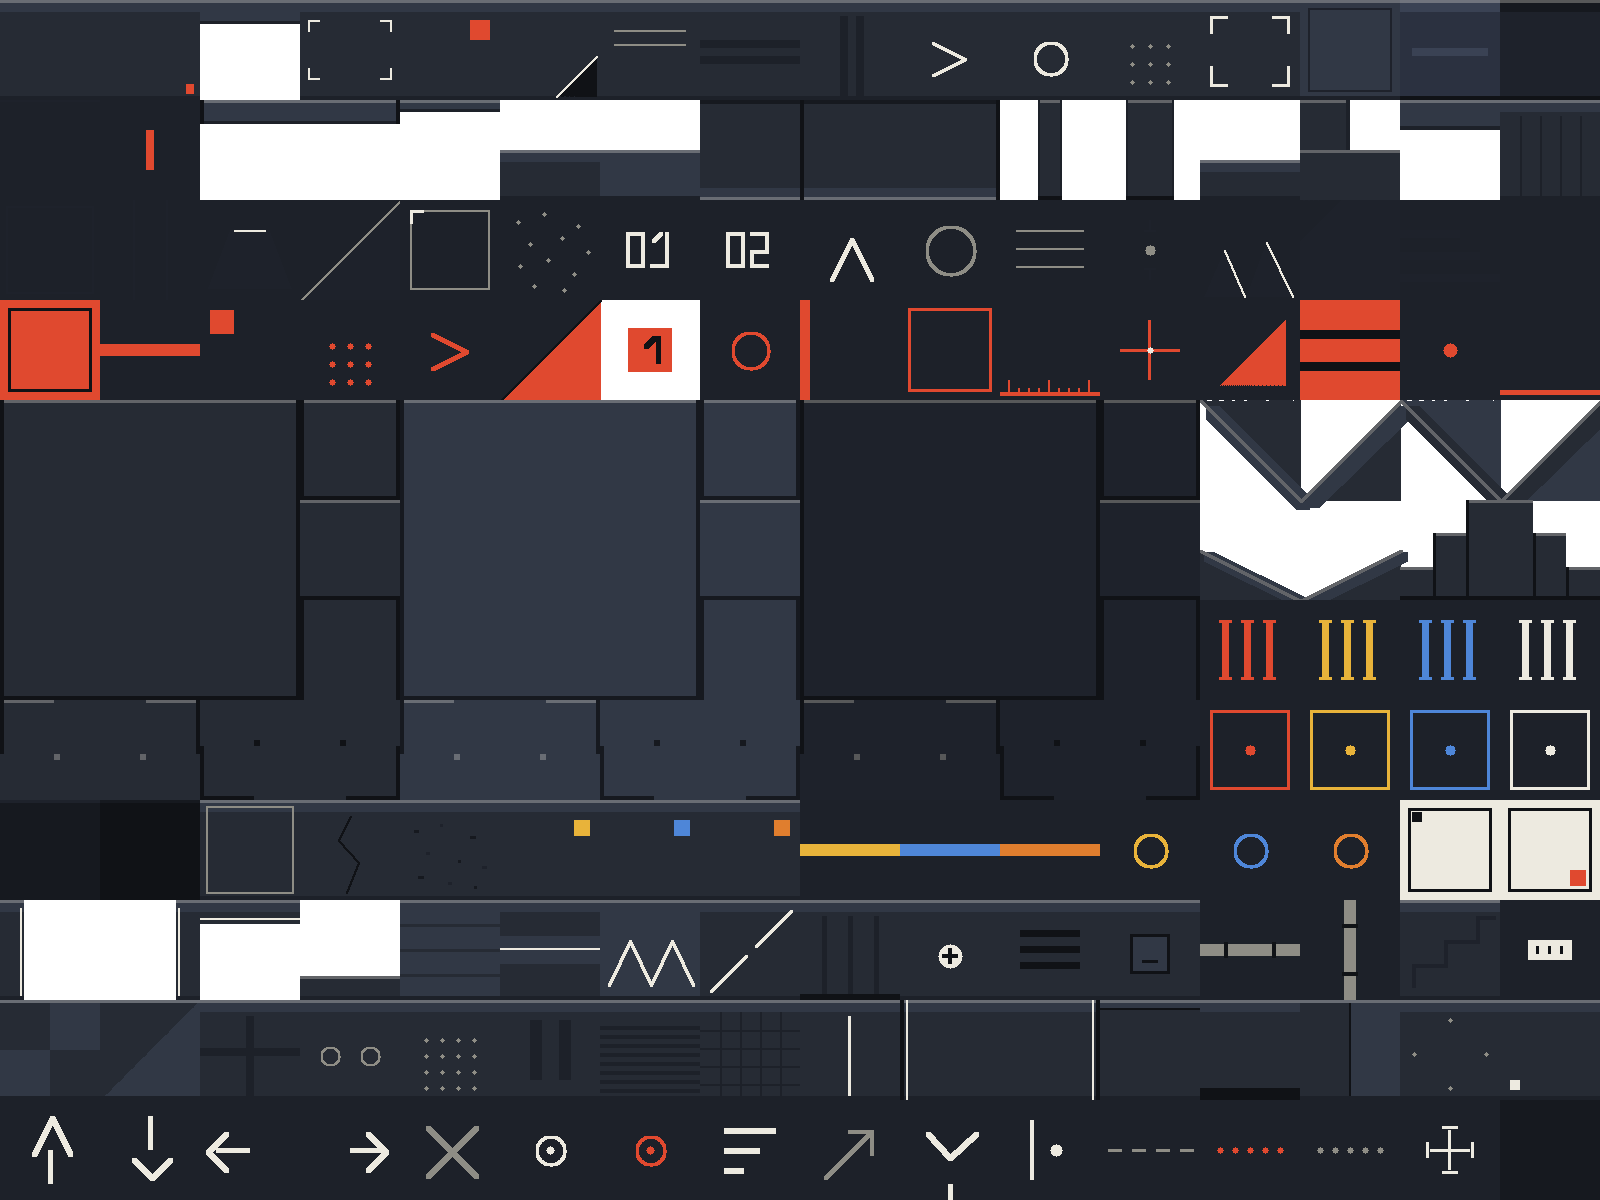
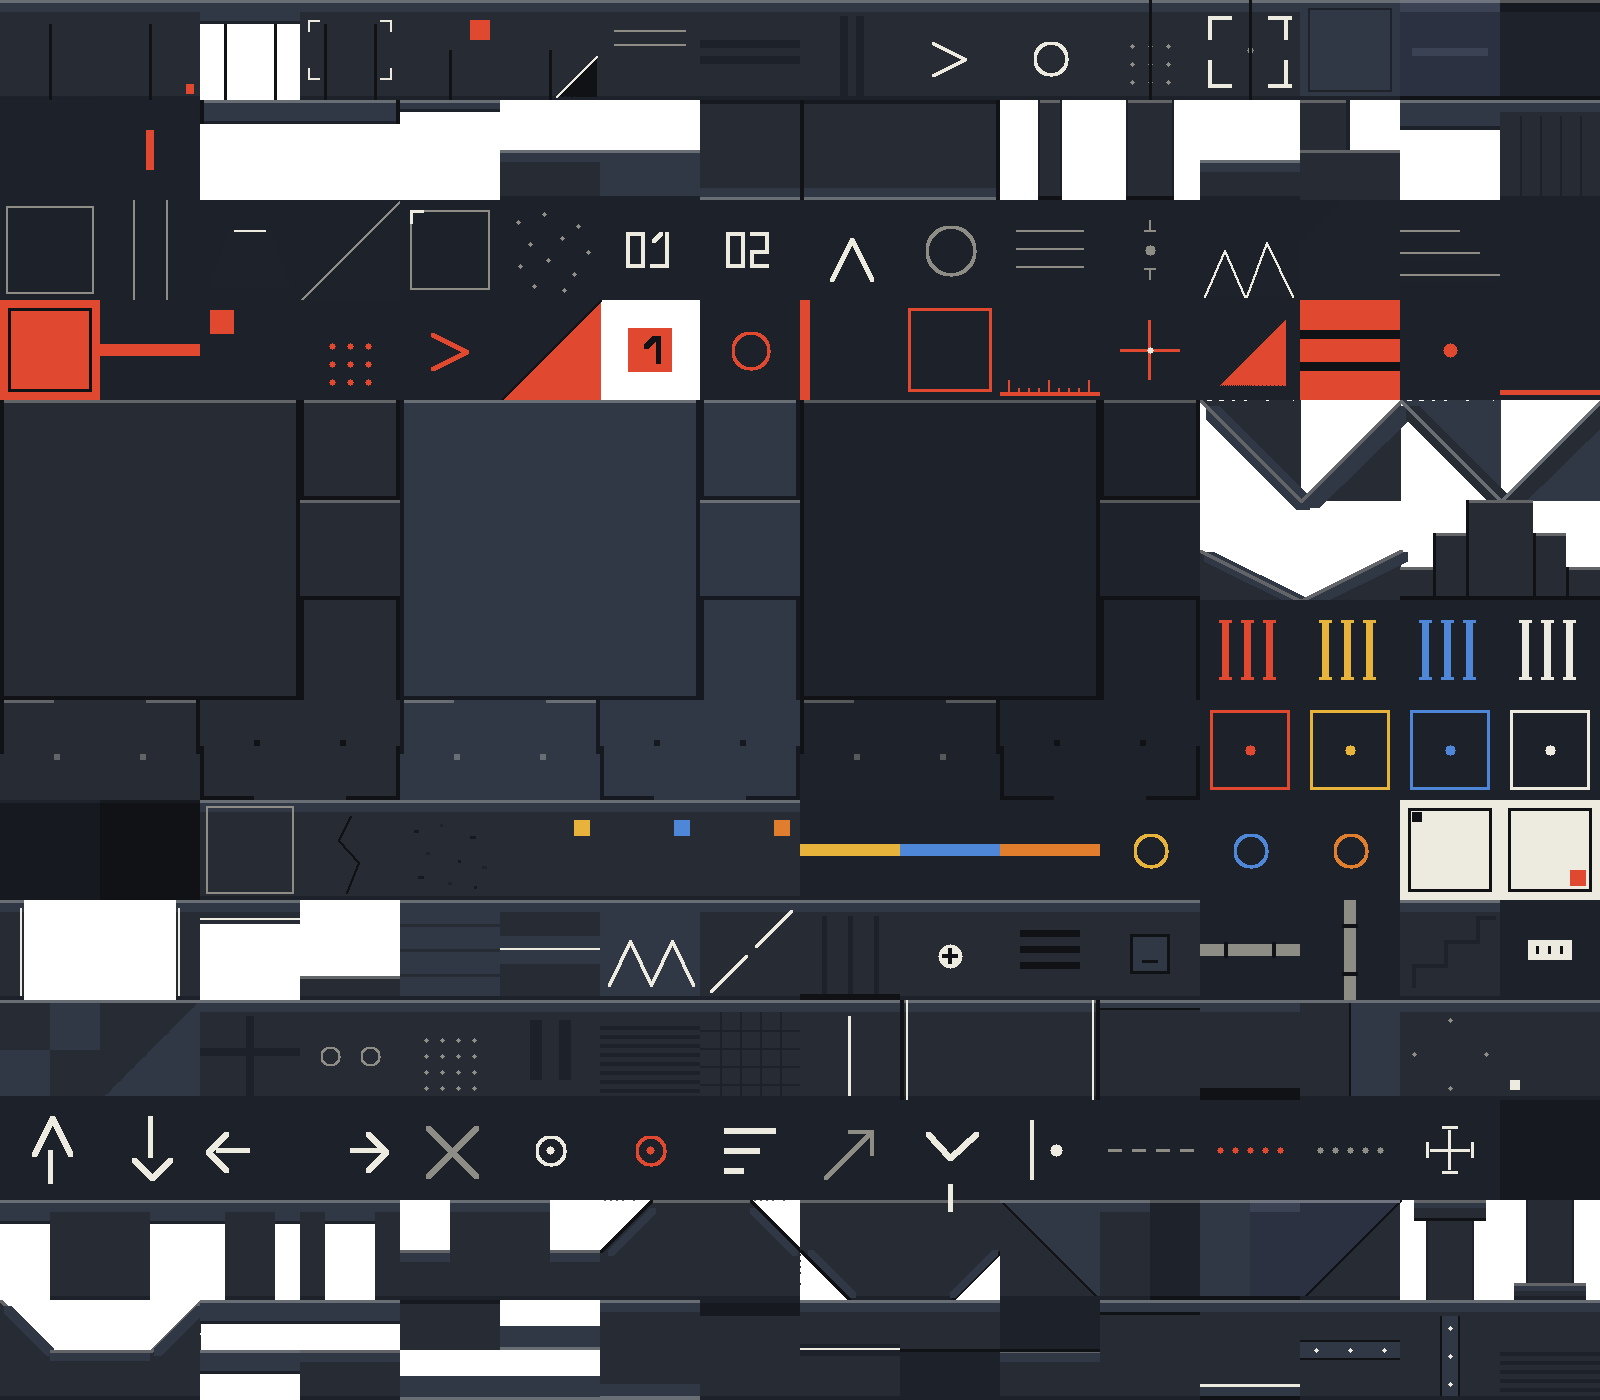
图块集 224 格全量终态:逐格图像识别审计勘误五处((12,0) 取景框与 (3,0) 角刻同质化→括弧加大+中心点;(0,2)(1,2)(11,2)(14,2) INK3-on-DARKV 细节过隐→提 DIM;(12,2) 山脊纸白线补齐四边;(14,4)(15,4) 亮面板坡缘色随底色;(1,11) 下箭头杆头接续)+ 过渡件族 32(变厚·薄↔整×2/凸凹节点/半高↔全高×2/削角 45° 墙柱×4/材质交界×4/柱头柱脚/坡脚跑平×2/双层桥·天桥·双层天花/踢脚·顶裙·腰线·分层×2·女儿墙·檐口·嵌筋横竖·百叶带)+ 坡面幕差分族(45° 坡×4·缓坡 2:1×2·阶梯坡升降·

diff --git a/docs/design/levels.md b/docs/design/levels.md
@@ -8,13 +8,13 @@
 ## 0. 制作流程(全在编辑器内)
 
 1. **素材**:图块集已全量绘制落位——`assets/tiles/native_tiles.png`
-   (100×100 网格,16 列 × 12 行 = 192 图位;构成主义纪律同 art-style
+   (100×100 网格,16 列 × 14 行 = 224 图位;构成主义纪律同 art-style
    §1/§6)。PNG 为孤本,再生源 = `tools/gen_tiles.lua`(Aseprite Lua
    生成器,画满全部图位后导出同名覆盖);**勿再运行
    `tools/build_native_kit.gd`**(会以占位灰块覆盖正式图块)。
 2. **TileSet**(`data/tiles/native_tileset.tres`):物理层一次配好——
    `layer0 = 共享实体(bit1)`,`layer1..5 = 疾/跃/逆/圆/伍 专属(bit2..32)`;
-   **192 图位碰撞多边形已逐格配好**(现行 = layer0:实心整方 / 单向踏面
+   **224 图位碰撞多边形已逐格配好**(现行 = layer0:实心整方 / 单向踏面
    One Way / 逆天花板底缘反向 One Way / 半高·立柱·门框局部多边形 /
    装饰无碰撞);角色差异 = 玩家 `collision_mask`(出生自动算:
    共享 + 本角色专属层)。
@@ -22,7 +22,7 @@
    (社区实证),初版建议手拼;16 邻接变体已随图集提供三族(下表),
    地形集可随时启用。
 
-### 图集地图(native_tiles.png · 192 格,16 列 × 12 行)
+### 图集地图(native_tiles.png · 224 格,16 列 × 14 行)
 
 > 源流:占位灰块(`tools/build_native_kit.gd`,已废勿跑)→ 40 格
 > aseprite 批次(`assets/art/tiles/native_tiles.aseprite`,档案保留)→
@@ -41,6 +41,8 @@
 | R3 | 红刻 16:满刻板 / 横条 / 角块 / 点阵 / 雪佛龙 / 红斜面 / 红编号块 / 圆环 / 边条 / 焦点框 / 刻度尺 / 准星 / 三角 / 条纹板 / 单点 / 底线 | 无;守每屏红 ≤3 处 |
 | R4–R7 | **地形 16 邻接三族**(角4/边4/中心/孤块/横独/竖独/内角4):石板族(0–3 列,主地形)/ 亮面板族(4–7 列,高台)/ 墨块族(8–11 列,深井) | 整方 |
 | R4–R7(12–15 列) | **坡面 / 幕差分族 16**:45° 坡×4(石板·亮面板 × 右升·右降,踏面 P30 斜缘)/ 缓坡 2:1×2 / 阶梯坡·升降×2 / 四色刻度三柱×4(红黄蓝纸白,art-style §7.2)/ 四色焦点框×4 | 坡件 = 三角 / 三级阶梯多边形;四色 = 无(Decor 层) |
+| R12 | **过渡件·端头截面 16**:变厚·薄↔整×2 / 凸节点·凹节点 / 半高↔全高×2 / **削角 45° 墙柱×4**(左上·右上·左下·右下,防挂角)/ 材质交界×4(石↔亮对角、石↔墨竖分、亮↔动竖分、动↔石对角)/ 柱头·柱脚(T 形双多边形) | 端头 = 分段多边形;削角 = 五边形;材质 = 整方;柱 = 双多边形 |
+| R13 | **过渡件·跑平桥接 16**:坡脚跑平×2(45° 坡后垫平)/ 双层桥·薄对薄×1(双单向)/ 薄对厚×1 / 天桥·厚对薄×1(天花)/ 双层天花×1 / 踢脚·顶裙 / 腰线 / 分层上亮下暗·上暗下亮 / 女儿墙 / 檐口 / 嵌筋横·竖 / 百叶过渡带 | 跑平 = 五边形;桥 = 单向/天花单向组合;其余整方 |
 | R8 | 灰阶环境 14:深井壁×2 / DIM 框 / 裂纹 / 斑驳 / 纸面板×2(无碰);角色四色点缀 9:方块·横条·圆环 × 黄蓝橙(art-style §7.2 幕差分) | 前 14 格整方 |
 | R9 | 门框四件:左(0,9)/ 右(1,9)/ 楣(2,9)/ 槛(3,9);巨构 8:面板 / 梁 / 桁架 / 斜撑 / 基桩 / 锚点 / 通风口 / 检修口;阶梯纹(14,9) | 门框柱板局部多边形;巨构/阶梯整方 |
 | R9 | 管线横纵((12,9)(13,9))/ 铭牌(15,9) | 无 |

diff --git a/CHANGELOG.md b/CHANGELOG.md
@@ -33,7 +33,7 @@
   §0;**勿再运行 `tools/build_native_kit.gd`**(会以占位灰块覆盖)。
   **同日已被下条 192 格生成器图集接替,本批 aseprite 源档案保留;**
   其坡面三角件、四色刻度三柱语义已由下条坡面 / 幕差分族补齐。
-- **图块集换代 192 格**(Aseprite 全量绘制;`tools/gen_tiles.lua`
+- **图块集换代 224 格**(Aseprite 全量绘制;`tools/gen_tiles.lua`
   生成器为源,PNG 孤本同名覆盖,场景零改动):`assets/tiles/native_tiles.png`
   16 列 × 12 行——实心主族 16(基准/红刻/角刻/斜切/纹样/圆环/点阵/
   取景框/亮面板/动板/墨块)+ 单向薄板与端件窄条 / 半高块×2 /
@@ -43,11 +43,19 @@
   角色四色点缀(方块·横条·圆环 × 黄蓝橙,art-style §7.2)/
   门框四件 + 巨构 8 + 管线铭牌 / 组合纹样 16 / 标记导航 16 /
   **坡面·幕差分族 16**(45° 坡×4 踏面 P30 斜缘 / 缓坡 2:1×2 /
-  阶梯坡升降×2 / 四色刻度三柱×4 / 四色焦点框×4,art-style §7.2)。
-  **TileSet 同步重建**(`native_tileset.tres`):192 图位逐格碰撞
+  阶梯坡升降×2 / 四色刻度三柱×4 / 四色焦点框×4,art-style §7.2)/
+  **过渡件族 32**(变厚·薄↔整 / 凸凹节点 / 半高↔全高 / 削角 45°
+  墙柱×4 / 材质交界×4 / 柱头柱脚 / 坡脚跑平×2 / 双层桥·天桥·
+  双层天花 / 踢脚·顶裙·腰线·分层·女儿墙·檐口·嵌筋·百叶带)。
+  **逐格图像识别审计勘误五处**:(12,0) 取景框与 (3,0) 角刻同质化
+  → 括弧加大加粗+中心点;(0,2)(1,2)(11,2)(14,2) INK3-on-DARKV
+  细节过隐 → 提为 DIM;(12,2) 山脊纸白线补齐四边;(14,4)(15,4)
+  亮面板坡缘色按底色取色;(1,11) 下箭头杆头接续。
+  **TileSet 同步重建**(`native_tileset.tres`):224 图位逐格碰撞
   (整方 / 顶缘 24px·12px One Way / 逆天花板底缘反向 One Way /
   半高·柱·门框·阶台局部多边形 / 坡件三角与三级阶梯多边形 /
-  装饰无碰撞);兼容契约(0,0)(1,0)(2,0)(0,1)(1,1) 五格不变。
+  削角五边形 / 过渡件分段多边形 / 装饰无碰撞);兼容契约
+  (0,0)(1,0)(2,0)(0,1)(1,1) 五格不变。
   图位契约入 levels.md §0;门禁 flow_check 全绿、native_check 全部
   已落盘场景装载通过(本批验证时 13 关全绿;其后关卡目录并行扩至
   27 关,在途登记项与本批无关);L0/L4 关卡实拍复核(平台无缝拼合、

diff --git a/docs/ASSETS.md b/docs/ASSETS.md
@@ -22,7 +22,7 @@
 | 关卡(在演) | 6(第一幕六场 native;二~五幕占位随作关续批)| `levels_native/act1/*.tscn` | v0.45 换代:JSON 26 关管线退役(归档 git 历史) |
 | ~~测试道~~ | ~~2~~ | ~~trial_v5 / pair_trial~~ | v0.44.0 清退(测试关内容清退令)|
 | 图鉴插图(入引擎) | 43 张 png | `assets/archive/` |
-| 图块集(入引擎) | 1(native_tiles.png,192 格 16 列×12 行)| `assets/tiles/` | v0.45 原生作关唯一图块素材,图位契约 levels.md §0;PNG 为孤本,生成器 `tools/gen_tiles.lua` 同批入库 |
+| 图块集(入引擎) | 1(native_tiles.png,224 格 16 列×14 行)| `assets/tiles/` | v0.45 原生作关唯一图块素材,图位契约 levels.md §0;PNG 为孤本,生成器 `tools/gen_tiles.lua` 同批入库 |
 | aseprite 源 | 15 个(icon_construct 1 + mech 精灵 12 + ui 卡框 2)| `assets/art/`、`assets/art/mech/`、`assets/art/ui/` | v0.39.0 清退:地图皮源 30(levels/)+ 图鉴源 33(tiles_v2/)+ png 产物 38 —— 三套自研分层系统退役,唯余 R1 素材源;图块集不走 aseprite 源,以 Lua 生成器为源 |
 | 音频数据 .tres | 34(data/music 6 + data/sfx 28)| `data/music/`、`data/sfx/` | M-7/M-8 数值资源化(v0.38):BGM motif 与音效规格全 @export,Inspector 直调 |
 | svg 图标 | 69 个(7 类)| `assets/svg/` |
